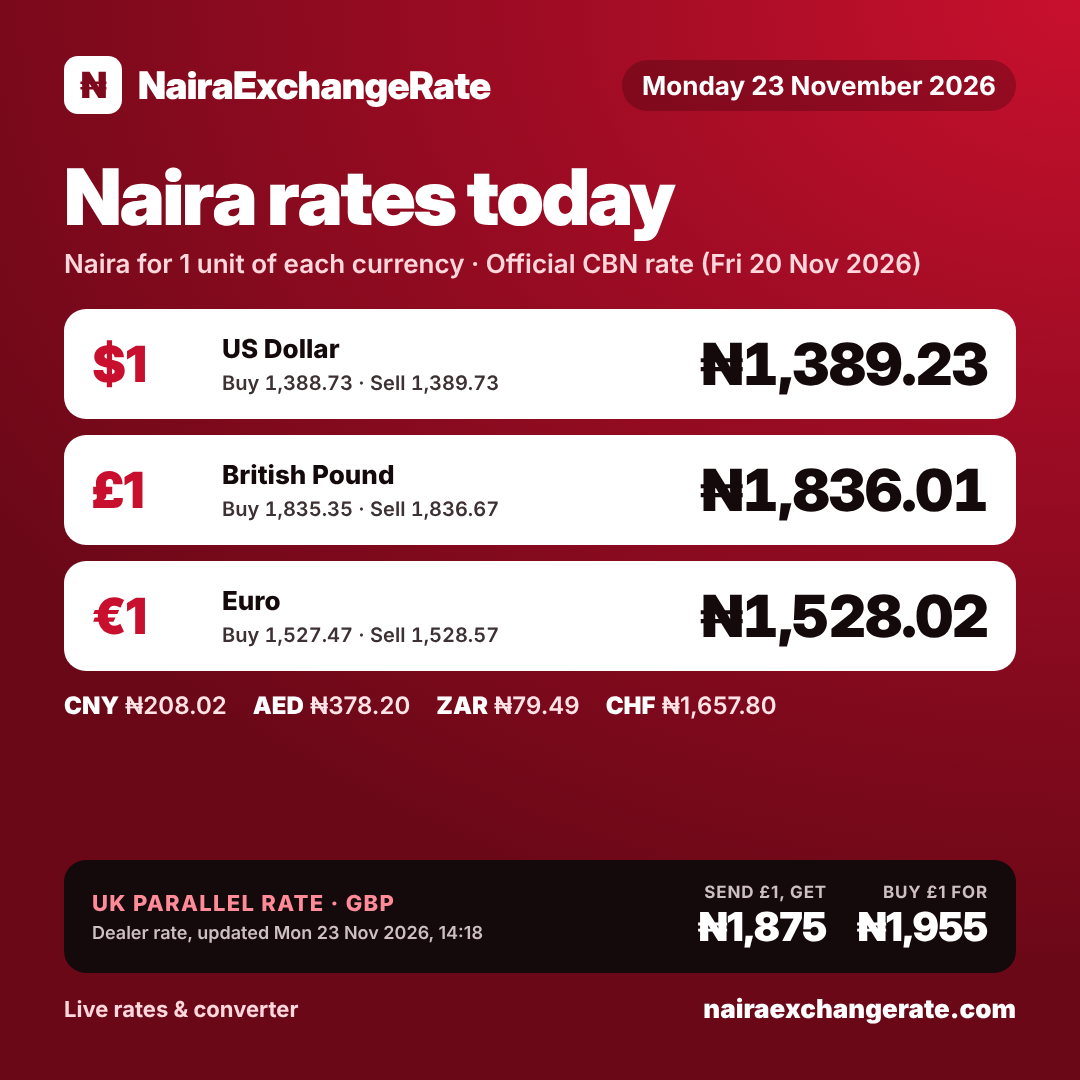
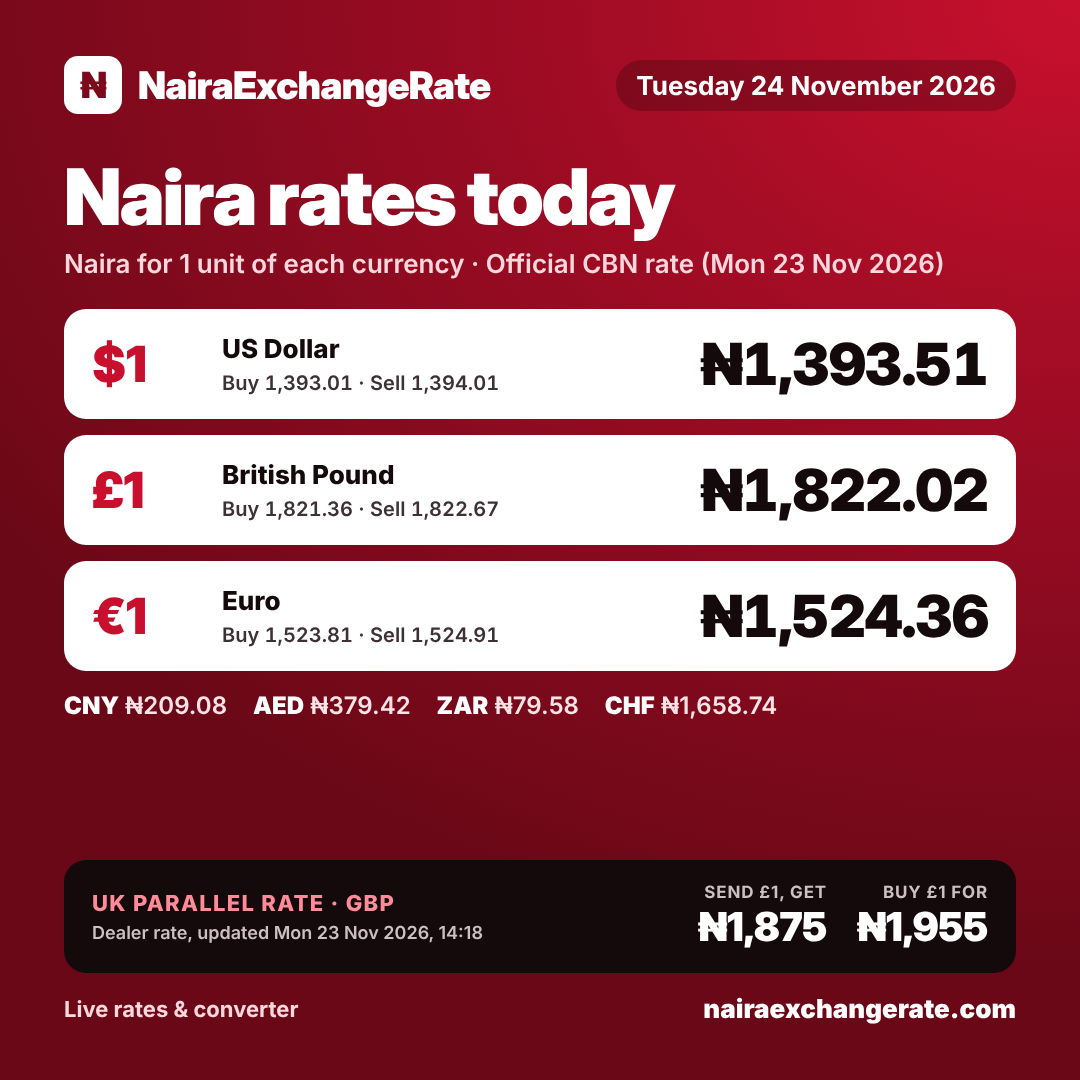
Daily update 2026-11-24
Claude-Session: https://claude.ai/code/session_01NfXuJu7VEe5jeYfddLVd8E

diff --git a/index.html b/index.html
@@ -359,61 +359,82 @@ footer .wrap{padding-block:22px 34px;font-size:.84rem;color:var(--muted);display
     }
   ],
   "cbn": {
-    "date": "2026-11-20",
+    "date": "2026-11-23",
     "rates": {
       "xof": {
-        "buy": 2.2859,
-        "middle": 2.2959,
-        "sell": 2.3059
+        "buy": 2.3075,
+        "middle": 2.3175,
+        "sell": 2.3275
       },
       "cny": {
-        "buy": 207.9409,
-        "middle": 208.0158,
-        "sell": 208.0907
+        "buy": 209.0039,
+        "middle": 209.0789,
+        "sell": 209.1539
       },
       "eur": {
-        "buy": 1527.468,
-        "middle": 1528.0179,
-        "sell": 1528.5679
+        "buy": 1523.8146,
+        "middle": 1524.3616,
+        "sell": 1524.9085
       },
       "jpy": {
-        "buy": 8.7556,
-        "middle": 8.7588,
-        "sell": 8.762
+        "buy": 8.755,
+        "middle": 8.7582,
+        "sell": 8.7613
       },
       "sar": {
-        "buy": 370.023,
-        "middle": 370.1563,
-        "sell": 370.2895
+        "buy": 371.2419,
+        "middle": 371.3751,
+        "sell": 371.5084
       },
       "zar": {
-        "buy": 79.4584,
-        "middle": 79.487,
-        "sell": 79.5156
+        "buy": 79.5561,
+        "middle": 79.5846,
+        "sell": 79.6132
       },
       "chf": {
-        "buy": 1657.1999,
-        "middle": 1657.7965,
-        "sell": 1658.3932
+        "buy": 1658.1489,
+        "middle": 1658.7441,
+        "sell": 1659.3392
       },
       "gbp": {
-        "buy": 1835.3502,
-        "middle": 1836.011,
-        "sell": 1836.6718
+        "buy": 1821.3618,
+        "middle": 1822.0155,
+        "sell": 1822.6693
       },
       "usd": {
-        "buy": 1388.7335,
-        "middle": 1389.2335,
-        "sell": 1389.7335
+        "buy": 1393.0109,
+        "middle": 1393.5109,
+        "sell": 1394.0109
       },
       "aed": {
-        "buy": 378.0616,
-        "middle": 378.1977,
-        "sell": 378.3338
+        "buy": 379.288,
+        "middle": 379.4241,
+        "sell": 379.5602
       }
     }
   },
   "news": [
+    {
+      "source": "Daily Trust",
+      "title": "Why CBN may retain interest rate at 23% despite falling inflation",
+      "summary": "Analysts expect the CBN to keep its benchmark rate at 23% at this week's MPC meeting even though inflation eased to 14.06% in October.",
+      "url": "https://dailytrust.com/why-cbn-may-retain-interest-rate-at-23-despite-falling-inflation/",
+      "date": "2026-11-24"
+    },
+    {
+      "source": "BusinessDay",
+      "title": "Naira further weakens to N1,394/$ bolstering case for rate hold",
+      "summary": "The naira lost N4.28 on Monday to close at N1,394.01 per dollar at the official market, strengthening calls for the CBN to hold rates.",
+      "url": "https://businessday.ng/business-economy/article/naira-further-weakens-to-n1394-bolstering-case-for-rate-hold/",
+      "date": "2026-11-23"
+    },
+    {
+      "source": "Daily Times Nigeria",
+      "title": "NGX Loses ₦767bn As Bearish Trend Enters Fifth Day",
+      "summary": "Nigerian stocks shed ₦767 billion on Monday, leaving market value at about ₦160 trillion after a fifth straight day of losses.",
+      "url": "https://dailytimesng.com/ngx-loses-%E2%82%A6767bn-as-bearish-trend-enters-fifth-day/",
+      "date": "2026-11-23"
+    },
     {
       "source": "BusinessDay",
       "title": "CBN seen holding rates as election spending threatens disinflation",
@@ -434,27 +455,6 @@ footer .wrap{padding-block:22px 34px;font-size:.84rem;color:var(--muted);display
       "summary": "Thirty NGX-listed companies paid about N4.6 trillion in tax in the first nine months of 2026, up 72% from N2.68 trillion a year earlier, after the new tax rules.",
       "url": "https://www.thisdaylive.com/2026/11/22/fgs-reforms-push-combined-tax-expenses-of-30-listed-firms-up-72-to-n4-6tn-in-nine-months/",
       "date": "2026-11-22"
-    },
-    {
-      "source": "The Times Nigeria",
-      "title": "NGX Loses ₦2.99 Trillion as Investors Trade 2.36 Billion Shares in One Week",
-      "summary": "Nigerian stocks shed about ₦2.99 trillion (1.83%) in value last week, with the All-Share Index closing at 247,660.74 points.",
-      "url": "https://www.thetimes.com.ng/2026/11/ngx-loses-%E2%82%A62-99-trillion-as-investors-trade-2-36-billion-shares-in-one-week/",
-      "date": "2026-11-22"
-    },
-    {
-      "source": "BusinessDay",
-      "title": "Naira nears 1,400/$ as reserves shed $610m in less than a month",
-      "summary": "The official rate closed the week at about N1,389.73 per dollar while external reserves slipped to $54.65bn.",
-      "url": "https://businessday.ng/business-economy/article/naira-nears-1400-as-reserves-shed-610m-in-less-than-a-month/",
-      "date": "2026-11-21"
-    },
-    {
-      "source": "THISDAY",
-      "title": "Dangote in Talks With SEC for Secondary Sale to Meet $4.3bn Refinery IPO Demand",
-      "summary": "Dangote is discussing a secondary share sale with the SEC after refinery IPO applications reached about N5.85 trillion ($4.3bn), far above the shares on offer.",
-      "url": "https://www.thisdaylive.com/2026/11/20/dangote-in-talks-with-sec-for-secondary-sale-to-meet-4-3bn-refinery-ipo-demand/",
-      "date": "2026-11-20"
     }
   ],
   "whatsappChannel": "https://whatsapp.com/channel/0029VbEJwXxCnA7nV3kcN73I",
@@ -638,6 +638,18 @@ footer .wrap{padding-block:22px 34px;font-size:.84rem;color:var(--muted);display
       "sar": 358.5815,
       "zar": 80.6373,
       "xof": 2.2745
+    },
+    "2026-11-23": {
+      "xof": 2.3175,
+      "cny": 209.0789,
+      "eur": 1524.3616,
+      "jpy": 8.7582,
+      "sar": 371.3751,
+      "zar": 79.5846,
+      "chf": 1658.7441,
+      "gbp": 1822.0155,
+      "usd": 1393.5109,
+      "aed": 379.4241
     }
   }
 }
